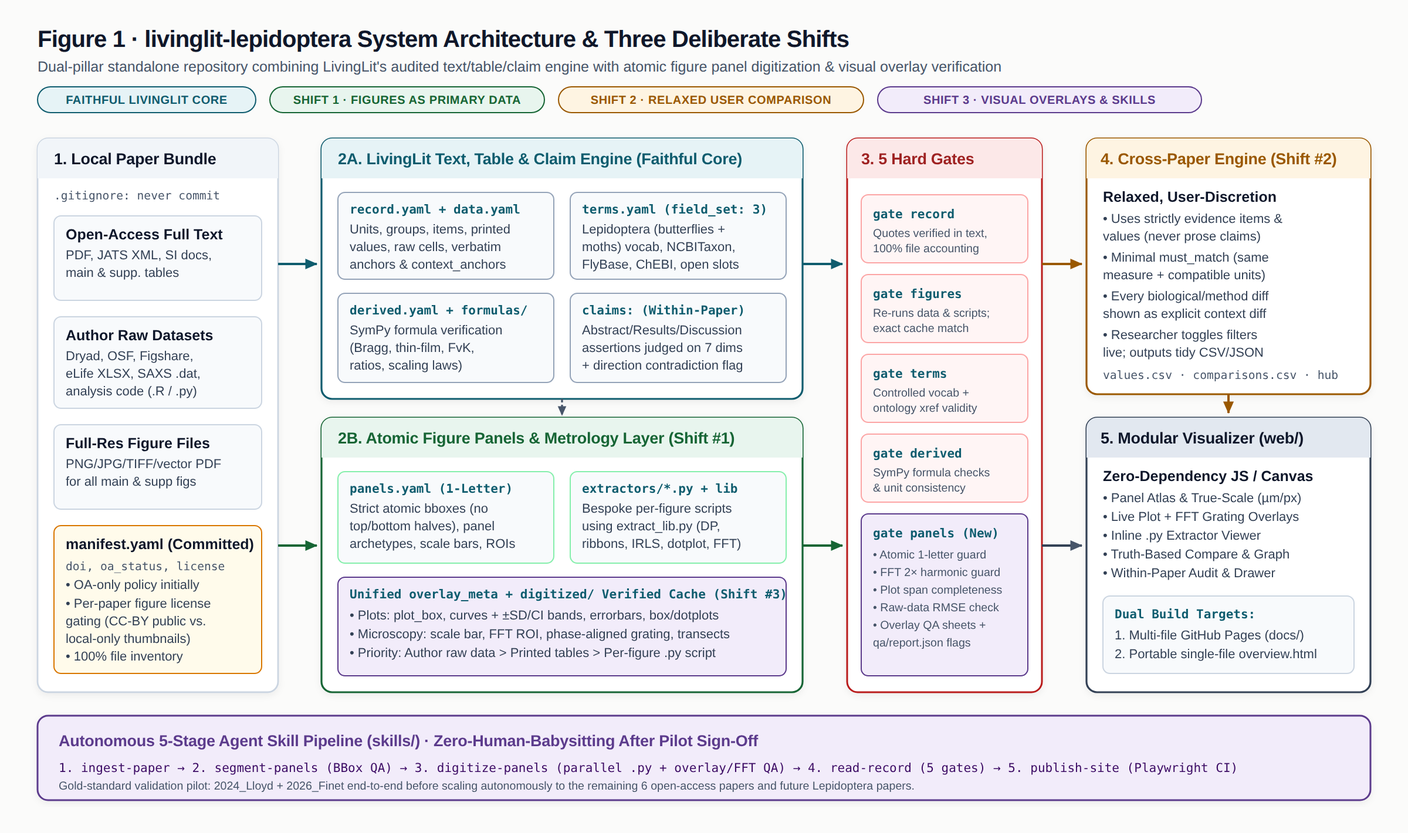
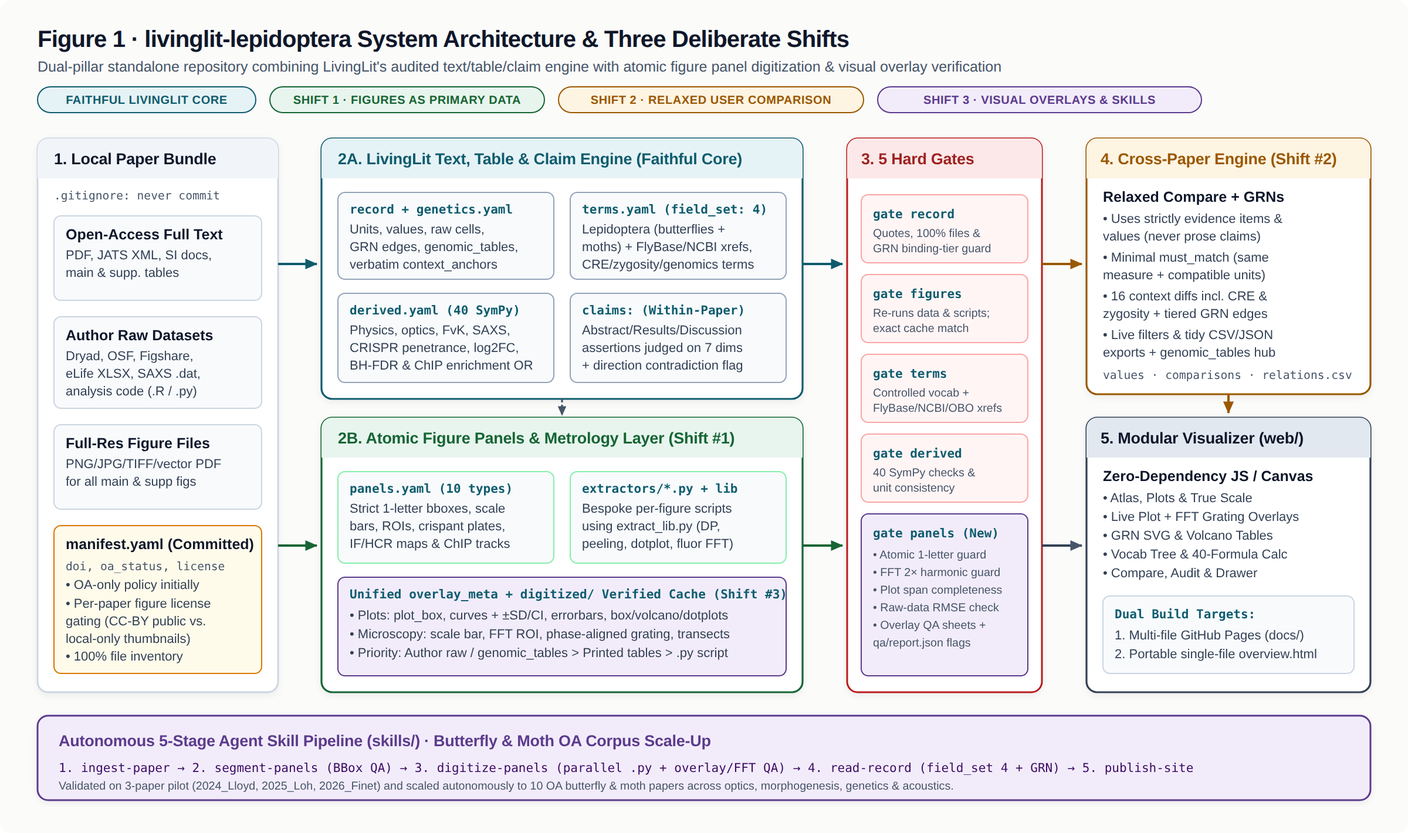
Update design docs (00..06) and all 4 schematics with field_set 4 genetics/GRN/genomics architecture

diff --git a/docs/design/00-overview.md b/docs/design/00-overview.md
@@ -4,8 +4,8 @@
 
 `livinglit-lepidoptera` is a standalone, reproducible literature infrastructure for **Lepidoptera (butterflies and moths)**. Its goal is to put **every empirical number, raw dataset, digitized figure curve, calibrated micrograph, and audited claim** from open-access Lepidoptera literature at a researcher's fingertips — with **zero baked-in theoretical assumptions** and **complete visual and computational verifiability**.
 
-- **Core initial domain**: Wing and body scale morphogenesis, cytoskeletal/cuticular development (actin bundles, chitin, developmental transcription factors & CRISPR/drug perturbations), 2D/3D scale ultrastructure (ridges, cross-ribs, lamellae, gyroids, honeycombs, lower-lamina thin films), and biophotonics (angle-resolved reflectance, SAXS, FDTD/thin-film optics).
-- **Explicit extensibility for additional Lepidoptera directions**: The `field_set: 3` vocabulary and schema leave clean, first-class room for **moth acoustic scales** (broadband ultrasonic absorbers on wings and thorax), **pigment chemistry** (melanins, ommochromes, pterins, papiliochromes, bile pigments), **thermal/radiative and wetting mechanics**, and **macro wing-pattern evo-devo**, without forcing new papers into rigid ad-hoc notes.
+- **Core initial domain**: Wing and body scale morphogenesis, evo-devo genetics & functional genomics (CRISPR G0 mosaics, RNAi knockdowns, hierarchical `target_gene` FlyBase/NCBI orthologs, anchor-backed directed Gene Regulatory Networks in `genetics.yaml`, snRNA-seq/ChIP-seq `genomic_tables`), cytoskeletal/cuticular development (actin bundles, chitin, drug perturbations), 2D/3D scale ultrastructure (ridges, cross-ribs, lamellae, gyroids, honeycombs, lower-lamina thin films), and biophotonics (angle-resolved reflectance, SAXS, FDTD/thin-film optics).
+- **Explicit extensibility for additional Lepidoptera directions**: The `field_set: 4` vocabulary and schema leave clean, first-class room for **moth acoustic scales** (broadband ultrasonic metamaterial absorbers on wings and thorax), **pigment chemistry** (melanins, ommochromes, pterins, papiliochromes, bile pigments), **thermal/radiative and wetting mechanics**, and **macro wing-pattern evo-devo** (coding exons, cis-regulatory elements, and lncRNAs/miRNAs), without forcing new papers into rigid ad-hoc notes.
 
 ![System Architecture & Three Deliberate Shifts](figures/fig1_architecture.svg)
 
@@ -16,9 +16,9 @@
 `livinglit-lepidoptera` preserves the epistemic foundation of upstream LivingLit while making **three explicit structural and ideological adaptations** for comparative Lepidoptera science:
 
 ### Five Pillars Kept 100% Faithful to Upstream LivingLit
-1. **Zero invented numbers or interpretive prose**: Every stored datum traces directly to a verbatim paper quote (`≤30 words`, verified against extracted text), an exact author data cell (`data.yaml`), or deterministic extraction code re-executed on every gate.
-2. **Strict data-source hierarchy**: Author raw repository data (`Tier 1`) > printed tables and text (`Tier 2`) > code-extracted figure readings (`Tier 3`). Suspect author numbers are preserved verbatim and marked `suspect` / `suspected_error` — never silently corrected or dropped.
-3. **Code computes all checks, formulas, and directions**: SymPy derivation checks (`derived.yaml`), values-computed effect directions (`across.py`), and 7-dimension within-paper claim verdicts (`audit.py`).
+1. **Zero invented numbers or interpretive prose**: Every stored datum — including every directed regulatory edge in `genetics.yaml` — traces directly to a verbatim paper quote (`≤30 words`, verified against extracted text), an exact author data cell (`data.yaml`), or deterministic extraction code re-executed on every gate.
+2. **Strict data-source hierarchy**: Author raw repository data (`Tier 1`, including supplemental DE/ChIP/morphometric `genomic_tables`) > printed tables and text (`Tier 2`) > code-extracted figure readings (`Tier 3`). Suspect author numbers are preserved verbatim and marked `suspect` / `suspected_error` — never silently corrected or dropped.
+3. **Code computes all checks, formulas, and directions**: SymPy derivation checks (`derived.yaml`, 40 physics + morphometrics + genetics/CRISPR/genomics formulas), values-computed effect directions (`across.py`), GRN binding-assay `evidence_tier` guards (`gate_record.py`), and 7-dimension within-paper claim verdicts (`audit.py`).
 4. **Controlled vocabulary + `context_anchors` + `other_conditions`**: Unstated conditions remain `not stated`; novel experimental conditions go cleanly into `other_conditions` rather than being distorted into an ill-fitting field.
 5. **Per-figure extraction code**: Figure-specific logic lives strictly inside `records/<paper>/extractors/*.py` (never hacked into core `src/`).
 
@@ -26,9 +26,9 @@
 
 | # | Dimension | Original LivingLit | `livinglit-lepidoptera` | Rationale |
 |---|---|---|---|---|
-| **1** | **Role of figures** | Fallback audit tool (*"points or nothing"*); skips curves, boxplots, heatmaps, and microscopy images. | **Primary empirical layer**: atomic 1-letter segmentation (`panels.yaml`), bespoke `.py` digitization for spectra, `±SD`/CI bands, errorbars, boxplots, dotplots, and calibrated SEM/TEM/confocal 2D-FFT ridge metrology. | In Lepidoptera morphogenesis & optics, continuous spectra, PGLS plots, expression matrices, and calibrated micrographs *are* the primary quantitative record. |
-| **2** | **Cross-paper standing keys** | Strict `must_match` hard-blocks comparisons (`not comparable`) whenever required context differs. | **Relaxed, user-discretion comparison**: hard-blocks only on physical incompatibility (different measure or incompatible units); surfaces every biological/methodological difference transparently as interactive diff badges and filters. | Lepidoptera research is inherently comparative across species, clades, scale types, and stages; researchers should exercise explicit scientific discretion rather than hit hidden walls. |
-| **3** | **Verification & ingestion** | Manual `/tmp` render checks + human-driven reader runs. | **Unified geometric `overlay_meta`** (plots AND microscopy scale-bar/ROI/phase-aligned FFT gratings) + **autonomous 5-stage Agent Skill Pipeline (`skills/`)** with self-closing visual-QA loops and automated harmonic/completeness guards. | Enables scalable, autonomous ingestion of new papers without silent curve/harmonic defects after the initial human-reviewed pilot. |
+| **1** | **Role of figures & genetic plates** | Fallback audit tool (*"points or nothing"*); skips curves, boxplots, heatmaps, and microscopy images. | **Primary empirical layer**: atomic 1-letter segmentation (`panels.yaml`) with 10 archetypes (including `crispant_phenotype_plate`, `expression_imaging`, `expression_matrix`, `genomic_track_or_locus`), bespoke `.py` digitization for spectra, `±SD`/CI bands, errorbars, boxplots, snRNA-seq dotplots, volcano plots, and calibrated SEM/TEM/confocal/STED 2D-FFT metrology. | In Lepidoptera morphogenesis, optics & evo-devo, continuous spectra, PGLS plots, crispant wing plates, HCR/IF channels, ChIP tracks, expression matrices, and calibrated micrographs *are* the primary quantitative record. |
+| **2** | **Cross-paper standing keys & GRNs** | Strict `must_match` hard-blocks comparisons (`not comparable`) whenever required context differs. | **Relaxed, user-discretion comparison + Evidence-Tiered GRN**: hard-blocks only on physical incompatibility (different measure or incompatible units); surfaces all 16 biological/genetic/methodological differences (`genetic_element_type`, `allele_or_zygosity`, orientation, prep) as interactive diff badges, while synthesizing anchor-backed directed regulatory edges (`genetics.yaml`) styled by `evidence_tier`. | Lepidoptera research is inherently comparative across species, clades, genes, scale types, and stages; researchers should exercise explicit scientific discretion rather than hit hidden walls. |
+| **3** | **Verification & ingestion** | Manual `/tmp` render checks + human-driven reader runs. | **Unified geometric `overlay_meta`** (plots, dotplot matrices, AND microscopy scale-bar/ROI/phase-aligned FFT gratings) + **autonomous 5-stage Agent Skill Pipeline (`skills/`)** with self-closing visual-QA loops and automated harmonic/completeness/binding-tier guards. | Enables scalable, autonomous ingestion of new papers without silent curve, harmonic, or over-claimed GRN defects after the initial human-reviewed pilot. |
 
 ---
 
@@ -38,26 +38,26 @@
 livinglit-lepidoptera/
 ├── LICENSE                       # MIT (preserving upstream livinglit attribution)
 ├── README.md
-├── pyproject.toml                # Package: livinglit-lepidoptera (CLI: lepllit / livinglit)
+├── pyproject.toml                # Package: livinglit-lepidoptera (CLI: livinglit-lep)
 ├── .gitignore                    # Strictly excludes papers_dont_ever_commit/, raw data, caches
 ├── docs/
 │   ├── design/                   # Numbered design specification (00..06) + figures/*.svg,.png
 │   └── site/                     # Built multi-file static site (GitHub Pages ready)
-├── field/
-│   ├── field.yaml                # Extensible Lepidoptera context fields (field_set: 3)
-│   ├── vocab.yaml                # Hierarchical controlled vocabulary + relaxed standing keys
-│   ├── ontologies.yaml           # Pinned NCBITaxon, FlyBase, ChEBI, LepTree xrefs
-│   └── formulas/                 # SymPy physics & morphometrics formula library
+├── fields/lepidoptera/
+│   ├── field.yaml                # Extensible Lepidoptera context fields (field_set: 4, 16 fields)
+│   ├── changes.yaml              # Append-only vocabulary log (v3: 236 terms, FlyBase/NCBI xrefs)
+│   ├── vocab.yaml                # Rebuilt hierarchical vocabulary + relaxed standing keys
+│   └── formulas/                 # 40 SymPy physics, morphometrics, CRISPR & genomics formulas
 ├── src/livinglit_lepidoptera/
-│   ├── models.py                 # Pydantic v2 strict models (Record, Panel, Manifest, OverlayMeta)
-│   ├── extract_lib.py            # Shared CV/DP/FFT primitives (zero figure-specific constants)
-│   ├── panels.py                 # Atomic panel runner, overlay_meta builder, automated gate guards
+│   ├── models.py                 # Pydantic v2 strict models (Record, GeneticsFile, Panel, Manifest)
+│   ├── extract_lib.py            # Shared CV/DP/matched-filter/FFT primitives (zero figure hardcoding)
+│   ├── panels.py                 # Atomic panel runner, genetic metadata cards, automated gate guards
 │   ├── qa_overlays.py            # Full-figure BBox sheets, Plot overlays, Microscopy FFT grating sheets
-│   ├── gate_*.py                 # 5 deterministic gates (record, figures, terms, derived, panels)
+│   ├── gate_*.py                 # 5 deterministic gates (record + genetics tier guard, figures, terms, derived, panels)
 │   ├── audit.py                  # Within-paper numeric/formula/claim audit engine
 │   ├── across.py                 # Relaxed cross-paper comparison & transparent context diffs
-│   ├── harvest.py                # Author repository & code harvester + data_hub.json bundler
-│   ├── release.py                # Tidy release builder (values.csv, comparisons.csv, SCHEMA.md)
+│   ├── harvest.py                # Author repository, code & schema-driven genomic_tables bundler
+│   ├── release.py                # Tidy release builder (values.csv, comparisons.csv, relations.csv, terms.csv)
 │   └── cli.py                    # Unified CLI entrypoint
 ├── skills/                       # Autonomous 5-stage Agent Skill Pipeline
 │   ├── add-paper/SKILL.md        # Top-level orchestrator skill
@@ -67,21 +67,22 @@ livinglit-lepidoptera/
 │   ├── read-record/SKILL.md
 │   └── publish-site/SKILL.md
 ├── readers/                      # Lepidoptera-native reader instructions & checklists
-├── web/                          # Zero-dependency modular HTML/CSS/JS visualizer + bundler
+├── web/                          # Zero-dependency modular HTML/CSS/JS visualizer (Atlas, Plots, True Scale, Compare, Audit, GRN & Graph, Vocab & Formulas, Papers)
 ├── records/<paper>/              # One self-contained directory per paper
 │   ├── manifest.yaml             # DOI, OA status, license, figure_embed_policy, file inventory
 │   ├── record.yaml               # Text/table/supplement values, units, groups, items, claims
+│   ├── genetics.yaml             # Optional: anchor-backed directed GRN edges + genomic_tables specs
 │   ├── data.yaml                 # Exact cells mapped from author raw files
 │   ├── terms.yaml                # Controlled vocabulary mappings
 │   ├── derived.yaml              # Formula checks
 │   ├── readings.yaml             # Checked figure readings feeding evidence items
-│   ├── panels.yaml               # Atomic 1-letter panel manifest (zero composites)
+│   ├── panels.yaml               # Atomic 1-letter panel manifest (zero composites, 10 archetypes)
 │   ├── resources.yaml            # Linked repos, scripts, & raw archives
 │   ├── extractors/*.py           # Bespoke per-figure Python digitization scripts
 │   ├── digitized/                # Reproducible checked cache (panels_extracted.json, series.csv)
 │   └── qa/report.json            # Per-panel confidence grades, RMSE, harmonic & retry audit log
 ├── releases/                     # Versioned release snapshots
-├── tests/                        # Unit tests (extract_lib, harmonic guard, gates, Playwright smoke)
+├── tests/                        # Unit tests (extract_lib, genetics binding guard, gates, web build)
 └── .github/workflows/ci.yml      # Runs pytest + all N×5 paper gates + web build check
 ```
 

diff --git a/docs/design/05-autonomous-skill-pipeline.md b/docs/design/05-autonomous-skill-pipeline.md
@@ -13,10 +13,10 @@ After the initial human review of the 2-paper gold-standard pilot, adding a new 
 | Stage | Skill | Inputs | Outputs | Autonomous Verification Loop & Hard Exit Criteria |
 |---|---|---|---|---|
 | **1** | `skills/ingest-paper/SKILL.md` | Paper DOI / URL / local OA folder | `papers_dont_ever_commit/<paper>/` + `manifest.yaml` + `resources.yaml` | Downloads OA PDF/XML, high-res figures, and linked repos (Dryad/OSF/Figshare/eLife/GitHub); verifies OA license; enforces 100% file accounting and zero source files tracked in git. |
-| **2** | `skills/segment-panels/SKILL.md` | Full-res figures + captions | Atomic `panels.yaml` + `qa/bboxes_*.png` | Splits every figure into 1-letter panels with archetypes & `scale_bar` coords; renders **Full-Figure BBox Contact Sheets**; agent visually inspects every sheet and iterates coords until zero merged panels or clipped axis ticks remain. |
-| **3** | `skills/digitize-panels/SKILL.md` | `panels.yaml` + full-res figures + Tier-1 raw files | `extractors/*.py` + `digitized/{panels_extracted.json,series.csv}` + `qa/report.json` | **Parallelizable per figure via subagents**: writes bespoke `extractors/fN.py` using `extract_lib.py` (or configures microscopy FFT ROI); renders Plot & FFT Grating Overlays; visually inspects every overlay + runs **FFT harmonic, curve span, and raw-data RMSE guards**; retries up to 3× and flags any unresolved ambiguity transparently in `qa/report.json`. |
-| **4** | `skills/read-record/SKILL.md` | Full text, tables, SI docs, raw data, `panels.yaml` | `record.yaml`, `data.yaml`, `terms.yaml`, `derived.yaml`, `readings.yaml` | Executes Lepidoptera-native LivingLit reading (all printed values, raw cells, `context_anchors`, `other_conditions`, SymPy formulas, full 7-dim within-paper claims, panel ↔ item links); loops until all 5 gates (`record`, `figures`, `terms`, `derived`, `panels`) print `GATE PASSES`. |
-| **5** | `skills/publish-site/SKILL.md` | All `records/*/` | `releases/` + `docs/` + `overview.html` | Runs `audit` → `release` → `harvest` → modular `web/` build → headless Playwright visual & 0-JS-error smoke tests across light & dark themes. |
+| **2** | `skills/segment-panels/SKILL.md` | Full-res figures + captions | Atomic `panels.yaml` + `qa/bboxes_*.png` | Splits every figure into 1-letter panels with 10 archetypes (including `crispant_phenotype_plate`, `expression_imaging`, `expression_matrix`, `genomic_track_or_locus`), `scale_bar` coords, and channel/crispant/locus metadata; renders **Full-Figure BBox Contact Sheets** and iterates until zero merged panels or clipped axis ticks remain. |
+| **3** | `skills/digitize-panels/SKILL.md` | `panels.yaml` + full-res figures + Tier-1 raw files | `extractors/*.py` + `digitized/{panels_extracted.json,series.csv}` + `qa/report.json` | **Parallelizable per figure via subagents**: writes bespoke `extractors/fN.py` using `extract_lib.py` (including matched-filter marker peeling, shaded-overlay recovery, dotplot matrices, and fluorescent/SEM 2D-FFT); renders Plot & FFT Grating Overlays; visually inspects every overlay + runs **FFT harmonic, curve span, and raw-data RMSE guards**; retries up to 3× and flags any unresolved ambiguity transparently in `qa/report.json`. |
+| **4** | `skills/read-record/SKILL.md` | Full text, tables, SI docs, raw data, `panels.yaml` | `record.yaml`, optional `genetics.yaml`, `data.yaml`, `terms.yaml`, `derived.yaml`, `readings.yaml` | Executes Lepidoptera-native `field_set: 4` reading (all printed values, raw cells, `context_anchors`, `other_conditions`, anchor-backed GRN edges & `genomic_tables`, SymPy formulas, full 7-dim within-paper claims, panel ↔ item links); loops until all 5 gates (`record` + genetics binding-tier guard, `figures`, `terms`, `derived`, `panels`) print `GATE PASSES`. |
+| **5** | `skills/publish-site/SKILL.md` | All `records/*/` | `releases/` + `docs/` + `overview.html` | Runs `audit` → `release` (`values.csv`, `comparisons.csv`, `relations.csv`, `terms.csv`) → `harvest` (including `genomic_tables`) → modular `web/` build → headless Playwright visual & 0-JS-error smoke tests across all 8 tabs & light/dark themes. |
 
 Top-level orchestrator skill **`skills/add-paper/SKILL.md`** chains Stages 1–5 end-to-end with a single invocation.
 
@@ -60,12 +60,13 @@ Confidence states (`verified`, `low_snr_verified`, `partial_occlusion`, `flagged
 
 ## 3. Two-Phase Rollout Plan
 
-### Phase A · Gold-Standard Validation Pilot (Human Check Checkpoint)
-Run **two contrasting open-access papers** completely through Stages 1–5 with zero shortcuts:
-1. **`2024_Lloyd`** (*Heliconius sara*, *Nature Communications*, CC-BY-4.0) — stress-tests confocal + SIM + SEM microscopy, actin & ridge 2D-FFT (including fixing the `F8/I` 2× harmonic error, `F7/D` XZ ROI, and `F6/G` inset overlap), Cytochalasin D perturbation, joint scatter + OLS + 95% CI plots (`F2/D–F`), reflectance spectra + `±SD` bands (`F8/E`), beeswarm dotplots (`F8/N–O`), notched boxplots (`F2/J–L`), and full text/table/supplement/claim auditing.
-2. **`2026_Finet`** (34 butterfly species + *Bicyclus anynana* + *Morpho didius*, *Current Biology* OA) — stress-tests 34-species comparative phylogenetics, 39-scale scatter with per-point horizontal & vertical `±SD` errorbars (`F4/A`), PGLS regressions + dots + 95% CI ribbons (`F4/B–C`), FIB-SEM cross-sections & depth-stepped milling (`F5` split atomically into `A, B, C, D, C', D', C'', D''`), crossing experimental + FDTD reflectance spectra with `±SD` bands, selection spectra (`F2/B–C`), violin/boxplots (`F1`, `F2/E–J`), and full claim auditing.
+### Phase A · Gold-Standard Validation Pilot (Completed & Human-Verified)
+Three contrasting open-access papers validated end-to-end across all 5 stages:
+1. **`2024_Lloyd`** (*Heliconius sara*, *Nature Communications*, CC-BY-4.0) — confocal + SIM + TauSTED + SEM microscopy, actin & ridge 2D-FFT (including fluorescent channel-isolated FFTs), Cytochalasin D perturbation, overlapping scatter + OLS + 95% CI plots, reflectance spectra, beeswarm dotplots, and full claim auditing.
+2. **`2026_Finet`** (34 butterfly species + *Bicyclus anynana* + *Morpho didius*, *Current Biology* OA, CC-BY-4.0) — 34-species comparative phylogenetics, 39-scale scatter with per-point `x`/`y` errorbars, PGLS regressions + 95% CI ribbons, FIB-SEM cross-sections & depth-stepped milling, crossing experimental + FDTD reflectance spectra, and full claim auditing.
+3. **`2025_Loh`** (*Colias eurytheme*, *PLOS Biology*, CC-BY-4.0) — `field_set: 4` evo-devo genetics & genomics validation: 12 anchor-backed `Dsx`/`Bab`/`ivory` GRN edges (`genetics.yaml`), 2 schema-driven supplemental `genomic_tables` (`DataS6` 87 Bab-bound UVI-DE genes + `DataS10` 170 Fourier inter-ridge scales), 85 atomic panels exercising all 4 genetic archetypes, and 168-cell snRNA-seq dotplot digitization (`F10/B`).
 
-**Human review checkpoint**: Inspect the live pilot repo, QA contact sheets, `qa/report.json`, and rebuilt visualizer. Any schema, gate, or UX refinement happens *once* here.
-
-### Phase B · Autonomous Scale-Up to Full Seed Corpus & New Papers
-Once the pilot is signed off, run the remaining **6 OA seed papers** (`2018_Parnell`, `2021_McDougal`, `2023_Banerjee`, `2023_Seah`, `2024_Totz`, `2025_Loh`) autonomously through `skills/add-paper` (parallelized across papers/figures) — atomically splitting all remaining composite panels, replacing every flawed declarative plot with bespoke `.py` extractors, verifying every FFT grating, and completing full LivingLit text/table/claim reads — followed by any new butterfly or moth OA papers added in the future.
+### Phase B · Autonomous Scale-Up to 10-Paper Open-Access Butterfly & Moth Corpus
+Scale autonomously via `skills/add-paper` (parallelized across papers) to **10 Open Access Lepidoptera papers** spanning structural biophotonics, cellular morphogenesis, biomechanics, evo-devo genetics/GRNs, and moth acoustic stealth metamaterials:
+- Remaining 5 OA seed papers: `2018_Parnell` (*Heliconius* SAXS + reflectance), `2021_McDougal` (*Vanessa cardui* live speckle morphogenesis), `2023_Banerjee` (*Bicyclus anynana* Wnt/Armadillo/fz4/optix CRISPR GRN), `2023_Seah` (*Parides* Arp2/3 + CK-666 honeycomb lattice), and `2024_Totz` (*Vanessa cardui* FvK elastic buckling).
+- Plus 2 new OA expansion papers: a landmark **butterfly non-coding/lncRNA CRISPR evo-devo** paper (`ivory` lncRNA bridging `2025_Loh` & `2023_Banerjee` in the GRN!) and a landmark **moth wing/thoracic scale biophysics / ultrasonic acoustic stealth** OA paper bringing moths into the corpus alongside butterflies.

diff --git a/docs/design/04-across-sources.md b/docs/design/04-across-sources.md
@@ -25,10 +25,10 @@ Two empirical items are eligible for direct numerical comparison whenever:
 2. Their units are **dimensionally compatible** (auto-convertible by `numbers.convert`, e.g., `nm` ↔ `µm`) with compatible `expressed_as` basis (`absolute` vs. `% change` / `fold` are never mixed numerically).
 
 ### Tier 2 · Transparent Context Diff Surface (User Discretion)
-Every eligible cross-paper pair computes an explicit **`context_diff`** across all 13 contextual fields (`taxon`, `sex`, `anatomical_region`, `pattern_element`, `scale_type`, `functional_architecture`, `life_stage`, `pupal_stage_pct`, `target_gene`, `perturbation_modality`, `chemical_agent`, `imaging_modality`, `view_orientation`, `hydration_and_prep`):
+Every eligible cross-paper pair computes an explicit **`context_diff`** across all 16 contextual fields (`taxon`, `sex`, `anatomical_region`, `pattern_element`, `scale_type`, `functional_architecture`, `life_stage`, `pupal_stage_pct`, `target_gene`, `genetic_element_type`, `allele_or_zygosity`, `perturbation_modality`, `chemical_agent`, `imaging_modality`, `view_orientation`, `hydration_and_prep`):
 - **Matched fields** are shown as green verified pills (e.g., `✓ cover scale`, `✓ adult`, `✓ wild type`).
 - **Differing fields** are shown as explicit diff badges (e.g., `≠ taxon (genus)`, `≠ imaging_modality (SAXS vs SEM)`, `≠ perturbation (WT vs Cyto D)`).
-- **Known physical confounders get an explicit warning highlight** (not a silent block!), such as `⚠ view_orientation (tilted oblique vs planar apical)` — where foreshortening alters apparent SEM ridge pitch — or `⚠ hydration_and_prep (live hydrated vs vacuum dry SEM)`.
+- **Known physical and genetic confounders get an explicit warning highlight** (not a silent block!), including `⚠ view_orientation (tilted oblique vs planar apical)`, `⚠ hydration_and_prep (live hydrated vs vacuum dry SEM)`, `⚠ genetic_element_type (coding exon KO vs CRE deletion vs lncRNA)`, and `⚠ allele_or_zygosity (G0 somatic mosaic vs homozygous null vs RNAi knockdown)`.
 - **Interactive researcher toggles in the UI**: In **Compare → Values** and **Compare → Verdicts**, the user can interactively check/uncheck any context dimension (`Require exact match` vs. `Relax & color by field`) and group distributions by `paper`, `taxon` (phylogenetic DFS order), `functional_architecture`, `scale_type`, or `imaging_modality`.
 
 ---
@@ -41,12 +41,21 @@ For any two compared items $(A, B)$:
 
 ---
 
-## 4. "Where Do Papers Meet?" & Knowledge Graph
+## 4. Cross-Paper GRN Synthesis, "Where Do Papers Meet?" & Knowledge Graph
 
-Every paper meets every other paper across **all shared controlled-vocabulary axes** — not just measures:
-- Shared **taxa / clades** (computed along the phylogenetic hierarchy so *H. erato* and *H. melpomene* meet at `Heliconius` and `Nymphalidae`)
+Every paper meets every other paper across **all shared controlled-vocabulary axes** — not just morphometric measures:
+- Shared **taxa / clades** (computed along the phylogenetic hierarchy so *H. erato* and *H. melpomene* meet at `Heliconius` and `Nymphalidae`, and butterflies + moths meet at `Lepidoptera`)
 - Shared **scale types** & **functional architectures**
-- Shared **target genes**, **perturbations**, & **chemical agents**
-- Shared **imaging/optical modalities** & **measures**
+- Shared **target genes** (linked by canonical `target_gene:*` IDs + FlyBase/NCBI ortholog xrefs), **genetic element types**, **perturbations**, & **chemical agents**
+- Shared **imaging / genomics modalities** & **measures**
 
-Both the **Intersection Matrix** (`Compare → Where Papers Meet`) and the dedicated **Knowledge Graph** tab are 100% deterministically computed from `terms.yaml` and `values.csv` with clickable drill-down into exact evidence items and figure panels.
+### Evidence-Tiered GRN Synthesis (`genetics.yaml` → `relations.csv` → **GRN & Graph**)
+Directed regulatory edges (`source → relation → target`) from multiple evo-devo papers compose into a cross-paper **Gene Regulatory Network** while honoring the same epistemic discipline as empirical values:
+- Every edge carries a mandatory verbatim paper `anchor`, `assays`, `context` (`taxon`, `sex`, `life_stage`, `genetic_element_type`, `allele_or_zygosity`), and an explicit **`evidence_tier`**:
+  1. `direct_binding_and_perturbation` (solid stroke — requires both physical binding/chromatin assay and functional KO/RNAi)
+  2. `perturbation_only` (dashed — CRISPR / RNAi functional effect without direct binding proof)
+  3. `chromatin_or_binding_only` (dash-dot — ChIP-seq / CUT&Tag / ATAC-seq occupancy paired with expression)
+  4. `correlative` (dotted — snRNA-seq cluster enrichment / GWAS association)
+- `gate record` enforces that no edge can claim direct binding without a binding assay in `assays`.
+
+Both the **Intersection Matrix** (`Compare → Where Papers Meet`) and the 3-mode **GRN & Graph** workbench (`Regulatory Network (GRN)` · `Genomic Tables` · `Corpus Knowledge Graph`) are 100% deterministically computed from `terms.yaml`, `genetics.yaml`, and `values.csv` with clickable drill-down into exact evidence items, vocabulary xrefs, and figure panels.
